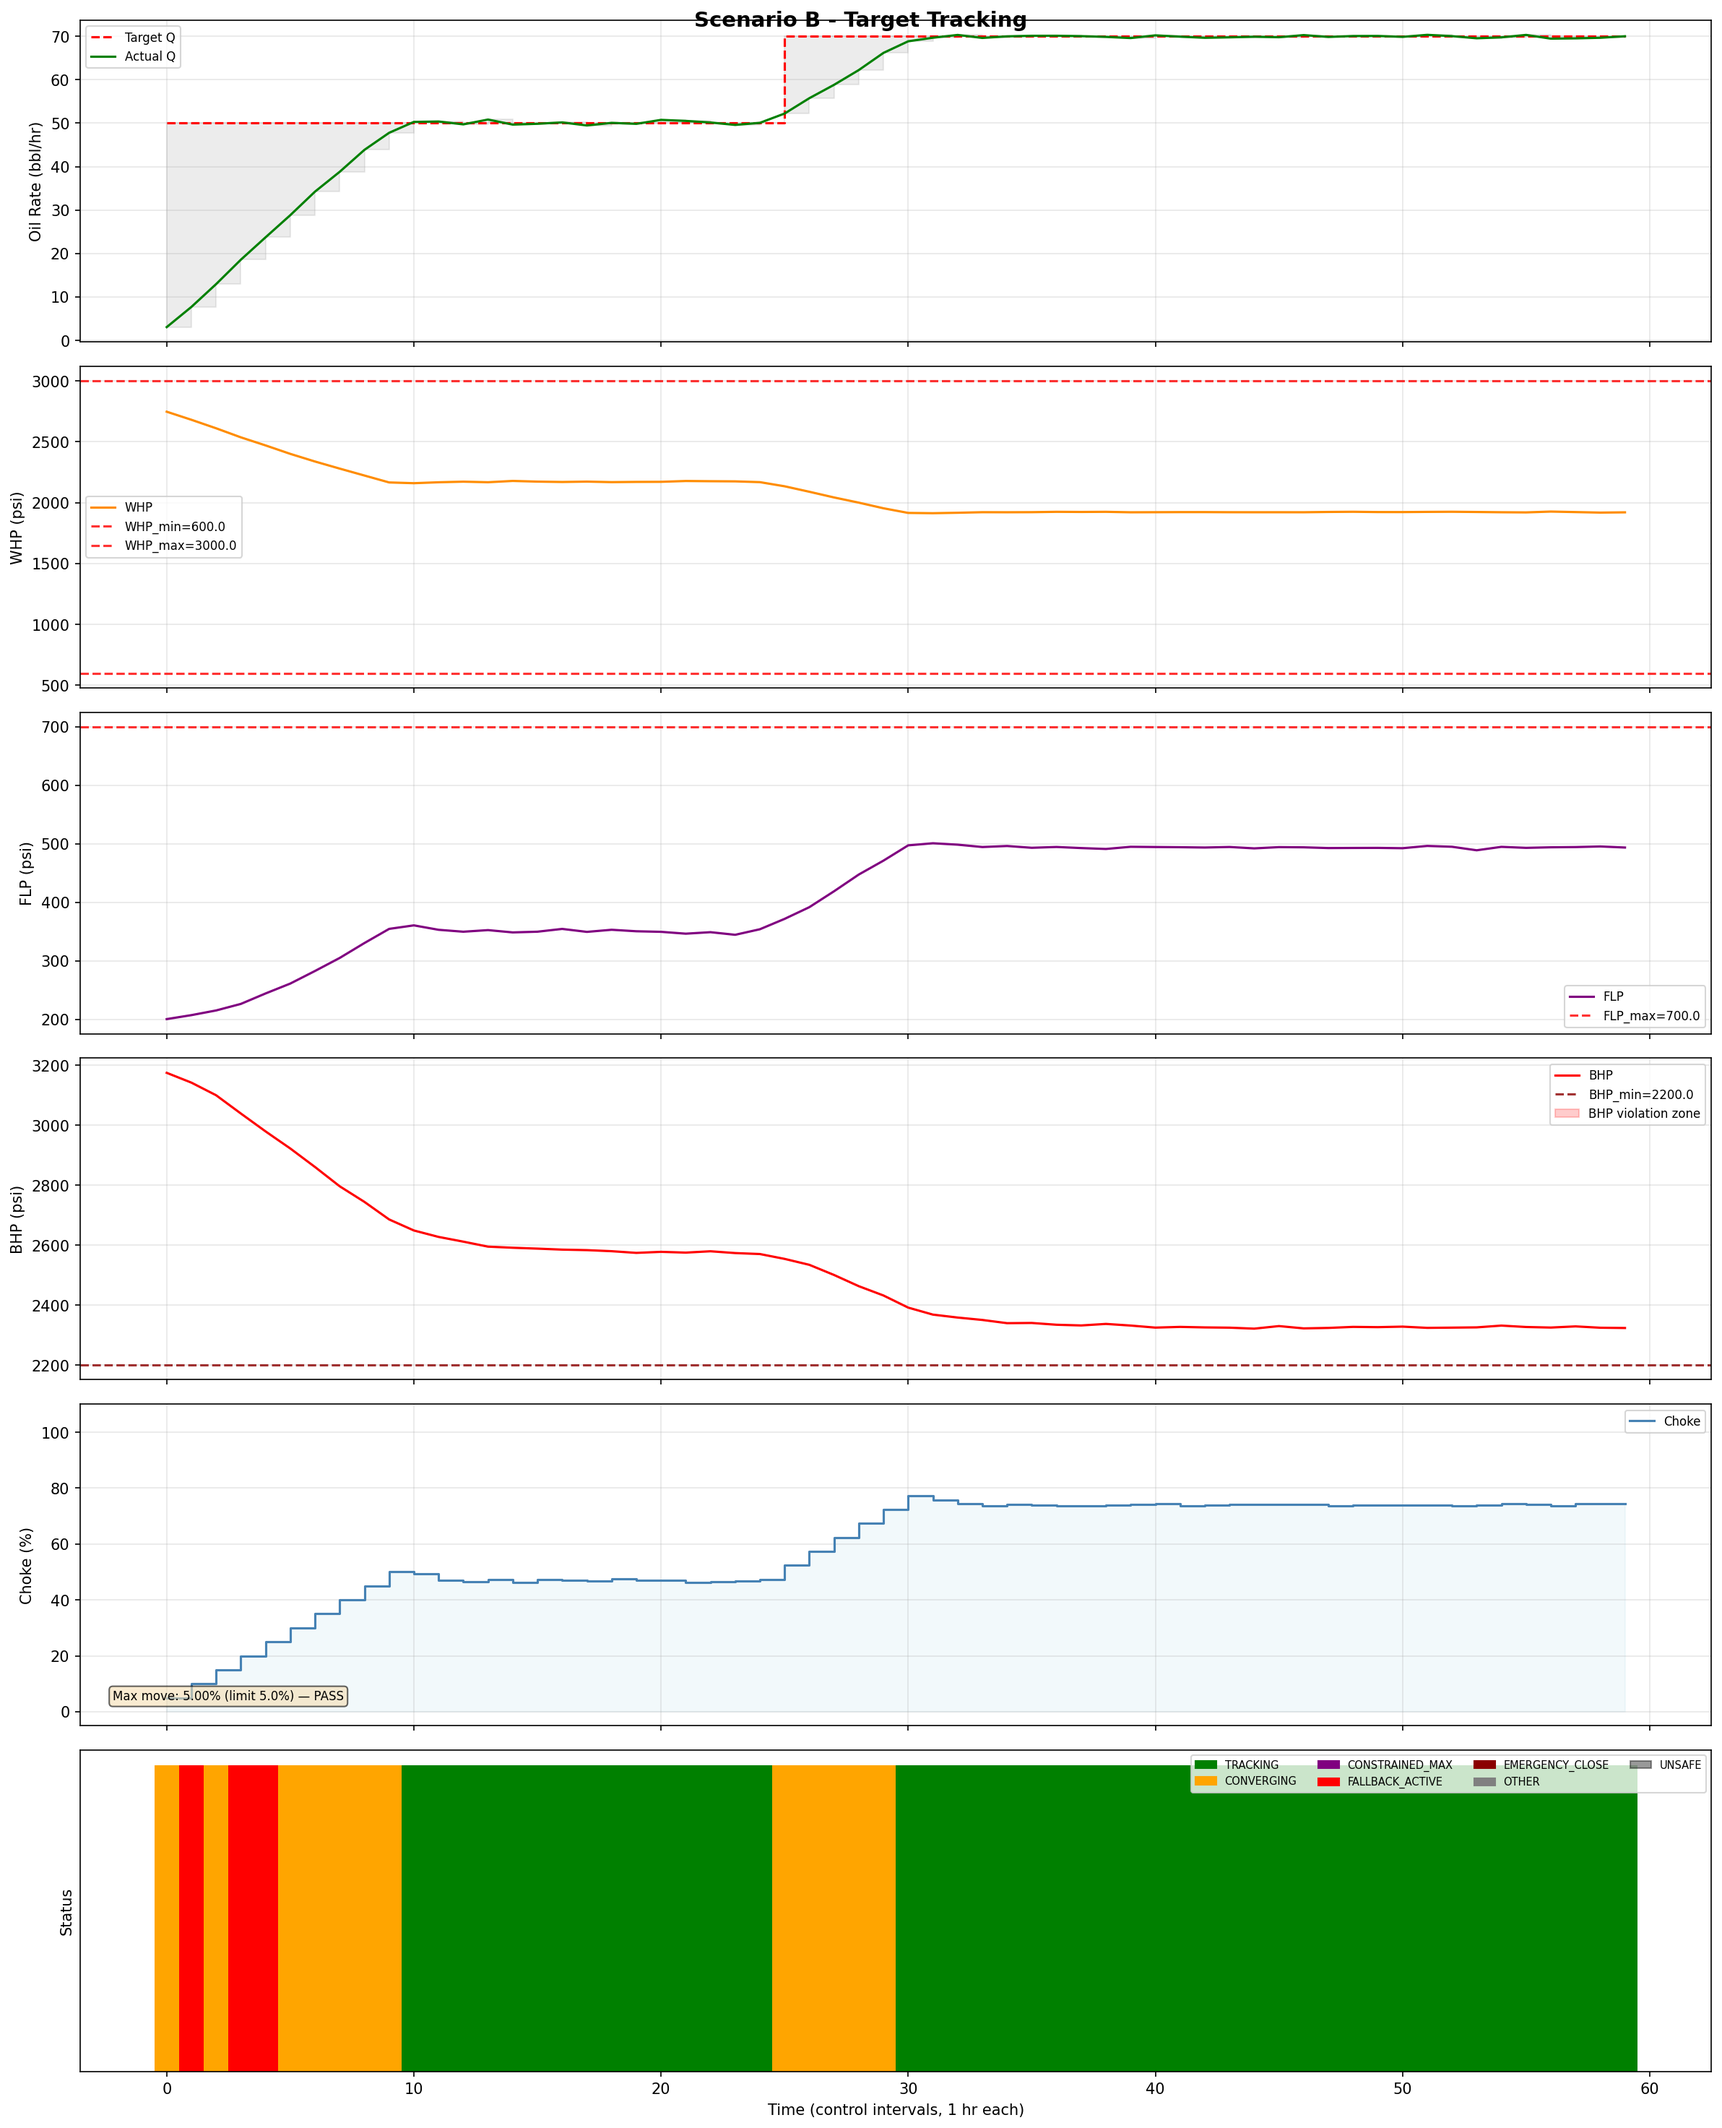
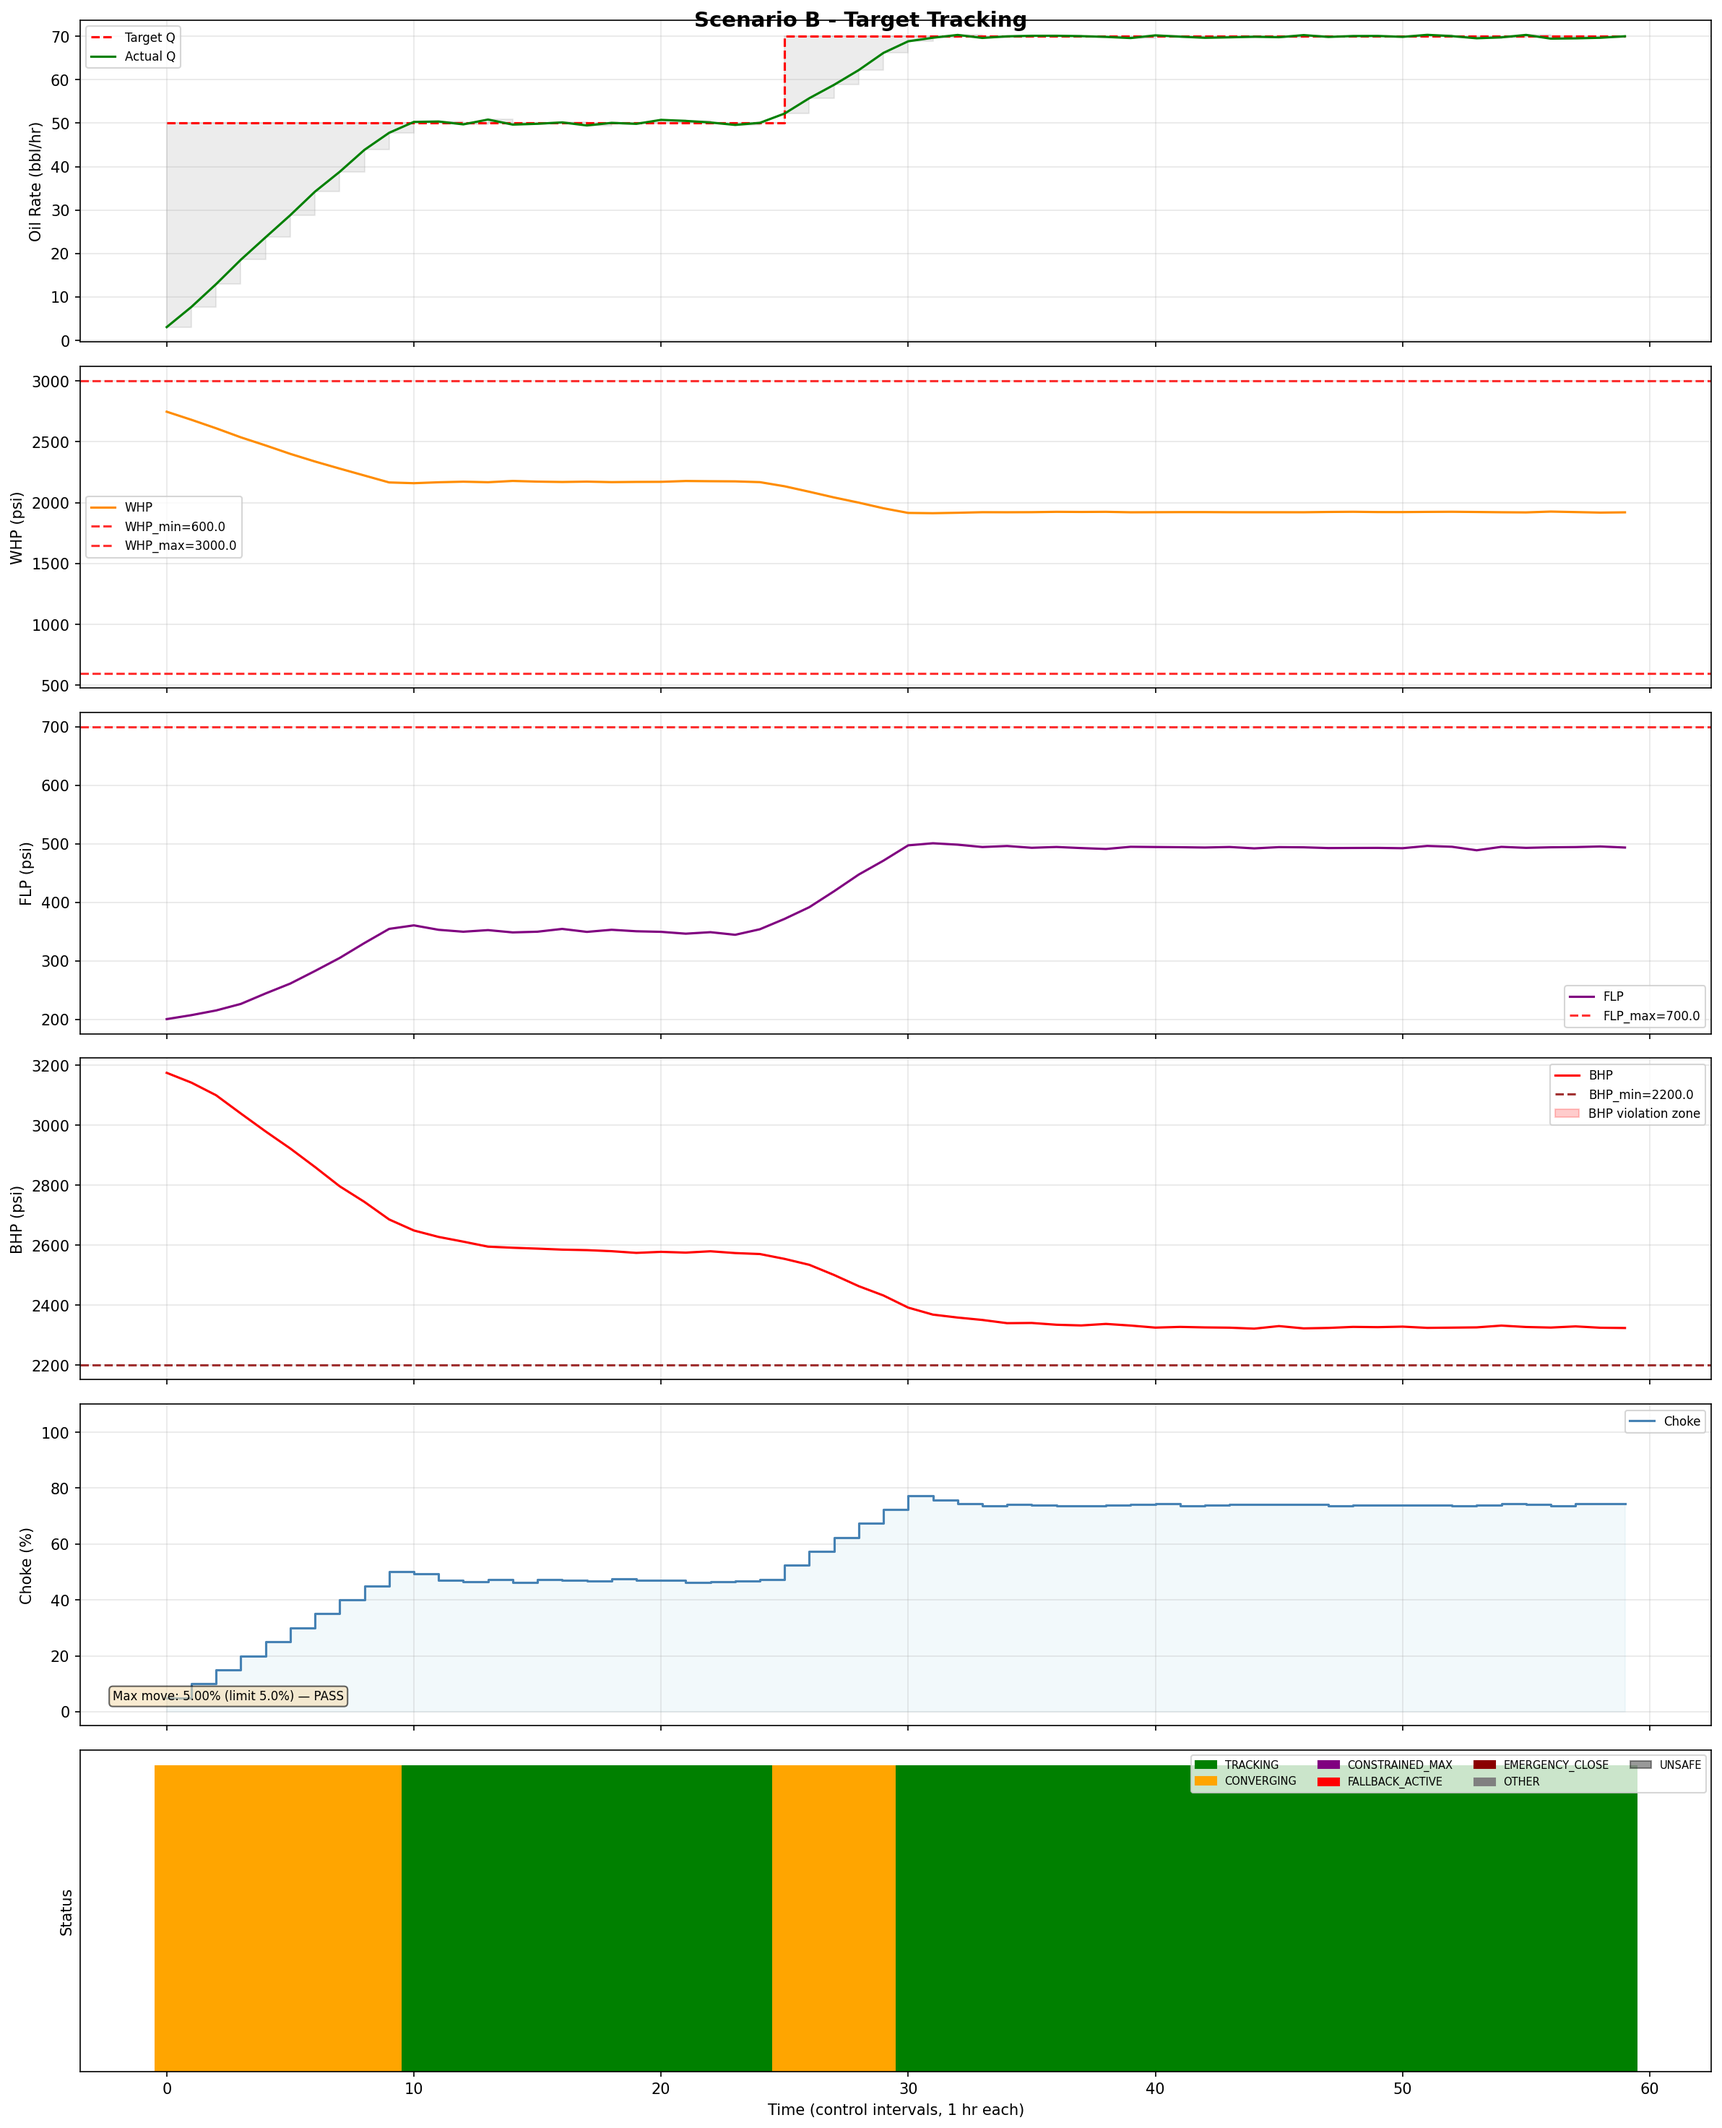
feat: add steady-state target optimizer to clamp infeasible targets to maximum safe rate with constraint attribution

Changed region(s): [[0.0931, 0.8122, 0.1862, 0.9997]]

diff --git a/src/scipy_mpc.py b/src/scipy_mpc.py
@@ -30,6 +30,10 @@ class ScipyMPC:
         self.current_choke  = 0.0
         self.prev_solution  = None
 
+        # cache feasibility result — computed once, reused every step
+        self.max_feasible_Q      = None
+        self.limiting_constraint = None
+
         self.stats = {
             "scipy_calls":   0,
             "scipy_success": 0,
@@ -143,14 +147,22 @@ class ScipyMPC:
         except Exception as e:
             return prev_choke, False, 0, str(e), None
 
-    def _get_status(self, pred_Q, target_Q, solver_ok):
+    def get_feasible_target(self, target_Q):
+        # compute once and cache — model doesn't change between calls
+        if self.max_feasible_Q is None:
+            self.max_feasible_Q, _, self.limiting_constraint = \
+                self.cm.compute_max_safe_production(self.model)
+
+        if target_Q > self.max_feasible_Q:
+            return self.max_feasible_Q, True, self.limiting_constraint
+        return target_Q, False, None
+
+    def _get_status(self, pred_Q, target_Q, solver_ok, clamped, limit_str):
+        if clamped:
+            return "CONSTRAINED_MAX", limit_str
+
         if not solver_ok:
             return "FALLBACK_ACTIVE", None
-
-        max_Q, _, limit_str = self.cm.compute_max_safe_production(self.model)
-
-        if target_Q > max_Q * 1.02:
-            return "CONSTRAINED_MAX", limit_str
 
         rel_err = abs(pred_Q - target_Q) / max(abs(target_Q), 1e-6)
         if rel_err < 0.03:
@@ -168,7 +180,10 @@ class ScipyMPC:
         prev_choke = self.current_choke
         self.stats["scipy_calls"] += 1
 
-        u_first, success, n_iters, msg, sol_array = self._solve(state, target_Q, prev_choke)
+        # clamp to feasible range before doing anything else
+        working_target, clamped, limit_str = self.get_feasible_target(target_Q)
+
+        u_first, success, n_iters, msg, sol_array = self._solve(state, working_target, prev_choke)
         elapsed_ms = (time.perf_counter() - t0) * 1000
         self.stats["solve_times_ms"].append(elapsed_ms)
         self.stats["total_iters"] += n_iters
@@ -179,7 +194,7 @@ class ScipyMPC:
         fallback_reason = ""
 
         if success:
-            seq  = self._build_sequence(u_first, prev_choke, target_Q)
+            seq  = self._build_sequence(u_first, prev_choke, working_target)
             traj = self.model.predict_trajectory(state, seq, self.horizon)
             traj_safe, viol = self.cm.is_trajectory_safe(traj)
 
@@ -201,7 +216,7 @@ class ScipyMPC:
             self.stats["fallback_used"] += 1
             self.prev_solution = None
             self.fallback.current_choke = prev_choke
-            fb_result  = self.fallback.compute(state, target_Q)
+            fb_result  = self.fallback.compute(state, working_target)
             choke_cmd  = fb_result["choke_command"]
             method     = f"BRUTE_FORCE ({fallback_reason[:40]})" if fallback_reason else "BRUTE_FORCE"
 
@@ -214,17 +229,20 @@ class ScipyMPC:
         one_step = self.model.predict_trajectory(state, [choke_cmd], 1)
         pred_Q   = float(one_step["Q"][0])
 
-        status, active_limit = self._get_status(pred_Q, target_Q, solver_ok)
+        status, active_limit = self._get_status(pred_Q, working_target, solver_ok, clamped, limit_str)
 
         return {
-            "choke_command":  round(choke_cmd, 2),
-            "status":         status,
-            "method":         method,
-            "predicted_Q":    round(pred_Q, 2),
-            "solver_iters":   n_iters,
-            "solve_time_ms":  round(elapsed_ms, 1),
-            "active_limit":   active_limit,
-            "choke_delta":    round(choke_cmd - prev_choke, 2),
+            "choke_command":    round(choke_cmd, 2),
+            "status":           status,
+            "method":           method,
+            "predicted_Q":      round(pred_Q, 2),
+            "solver_iters":     n_iters,
+            "solve_time_ms":    round(elapsed_ms, 1),
+            "active_limit":     active_limit,
+            "choke_delta":      round(choke_cmd - prev_choke, 2),
+            "requested_target": target_Q,
+            "working_target":   round(working_target, 2),
+            "is_clamped":       clamped,
         }
 
     def report(self):
